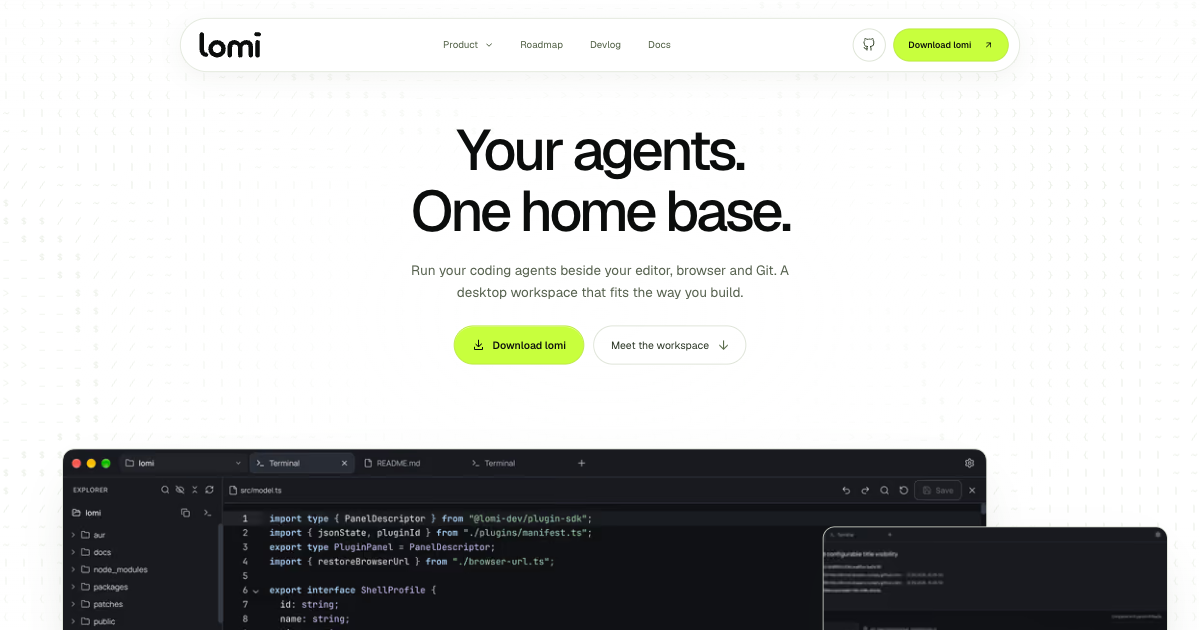
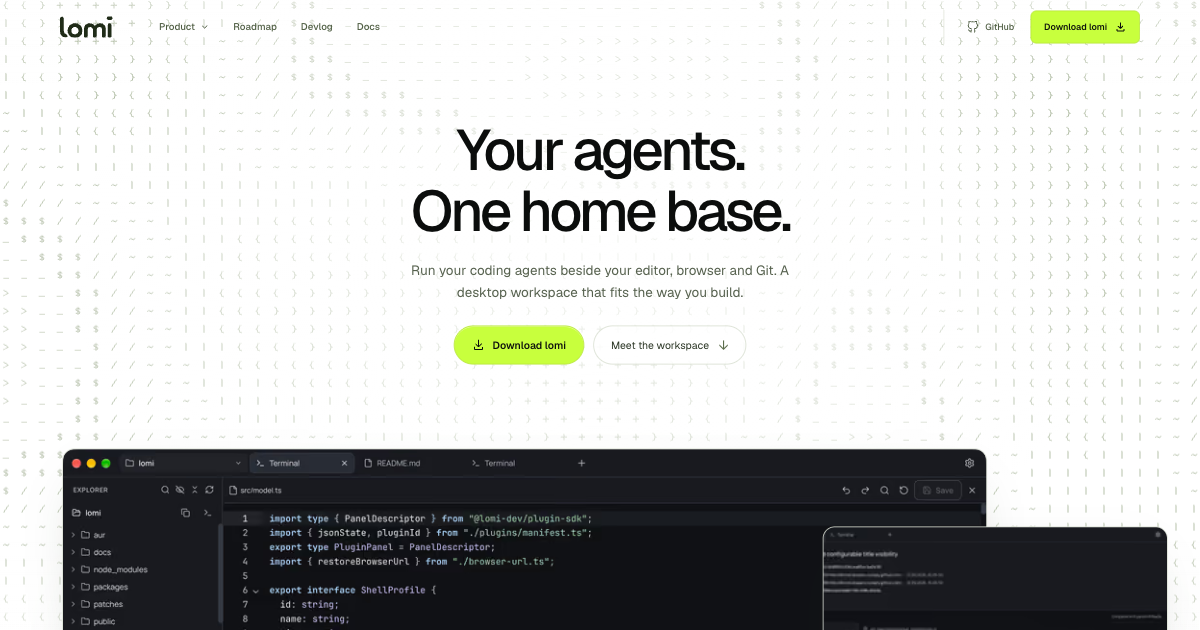
feat(web): integrate a fixed navbar with the hero
Keep navigation at the viewport top with a transparent surface over the
hero and a soft blur after scrolling or opening a menu. Refine the logo,
spacing, dropdowns, and download action across desktop and mobile.

Account for the header in anchor scrolling and footer spacing while
preserving the footer's viewport dimensions. Provide compact direct
navigation without JavaScript so menus cannot cover the chosen section.
Refresh the social preview and browser verification.

Validation:
- bun run build: passed with no diagnostics
- Astro static build with refreshed assets: passed
- Full Chrome browser verification suite: passed
- Chromium/WebKit navbar, anchor, and no-JavaScript review: passed
- Desktop/mobile visual checks: passed
- git diff --cached --check: passed

diff --git a/src/styles/global.css b/src/styles/global.css
@@ -20,9 +20,10 @@
   --color-focus: #345600;
   --color-selection: #eaf5cc;
 }
-:root { font-family: var(--font-sans); color: var(--color-ink); background: var(--color-chalk); font-synthesis: none; -webkit-font-smoothing: antialiased; --line: #ccd2c7; --ease-out: cubic-bezier(0.23, 1, 0.32, 1); }
+:root { font-family: var(--font-sans); color: var(--color-ink); background: var(--color-chalk); font-synthesis: none; -webkit-font-smoothing: antialiased; --line: #ccd2c7; --ease-out: cubic-bezier(0.23, 1, 0.32, 1); --site-header-height: 72px; }
 * { box-sizing: border-box; }
-html { scroll-behavior: smooth; scroll-padding-top: 24px; }
+html { scroll-behavior: smooth; scroll-padding-top: calc(var(--site-header-height) + 16px); }
+@media (max-width: 767px) { :root { --site-header-height: 64px; } }
 body { margin: 0; position: relative; isolation: isolate; }
 a { color: inherit; text-decoration: none; -webkit-tap-highlight-color: transparent; }
 img { display: block; width: 100%; height: auto; }

diff --git a/README.md b/README.md
@@ -19,7 +19,7 @@ The page includes:
 
 - A white hero with centered copy, pill actions, and overlapping real
   desktop captures over an interactive field of terminal characters.
-- A floating glass navigation bar: Product opens a three-column dropdown,
+- A fixed navigation bar at the viewport's top edge: Product opens a three-column dropdown,
   followed by Roadmap, Devlog, and Docs. Mobile Product uses a Back drill-in.
 - A separate `/devlog/` page with a Work in progress placeholder.
 - A real desktop capture starting in the hero, with a centered video control
@@ -32,6 +32,11 @@ The page includes:
 The footer follows the current viewport height with `100dvh` (`100vh` fallback).
 Its content scrolls inside the footer when a narrow or short window cannot fit
 everything; the outer footer keeps its exact size and every link stays reachable.
+The fixed header stays at the top on both pages. Anchor offsets and the footer's
+top spacing account for its 72px desktop or 64px mobile height.
+The header is transparent over the hero and gains a softly blurred surface after
+scrolling or opening a menu. Without JavaScript, compact direct navigation links
+remain available at every width, without a disclosure covering the destination.
 
 The roadmap is explicitly a draft, with no invented release dates. Product copy
 comes from the desktop application's README. Feature/platform restrictions are

diff --git a/docs/assets.md b/docs/assets.md
@@ -60,7 +60,7 @@ The older root-level `workbench.png`, `workbench-light.png`, and
 generated. Review the captures against the final launch release.
 
 `public/social-card.png` is a 1200 × 630 browser capture of the current hero
-with centered copy, terminal-character waves, and glass navigation,
+with centered copy, terminal-character waves, and fixed navigation,
 scaled from a wider browser view so the headline, controls, and product composition fit.
 
 ## Archived agent marks
